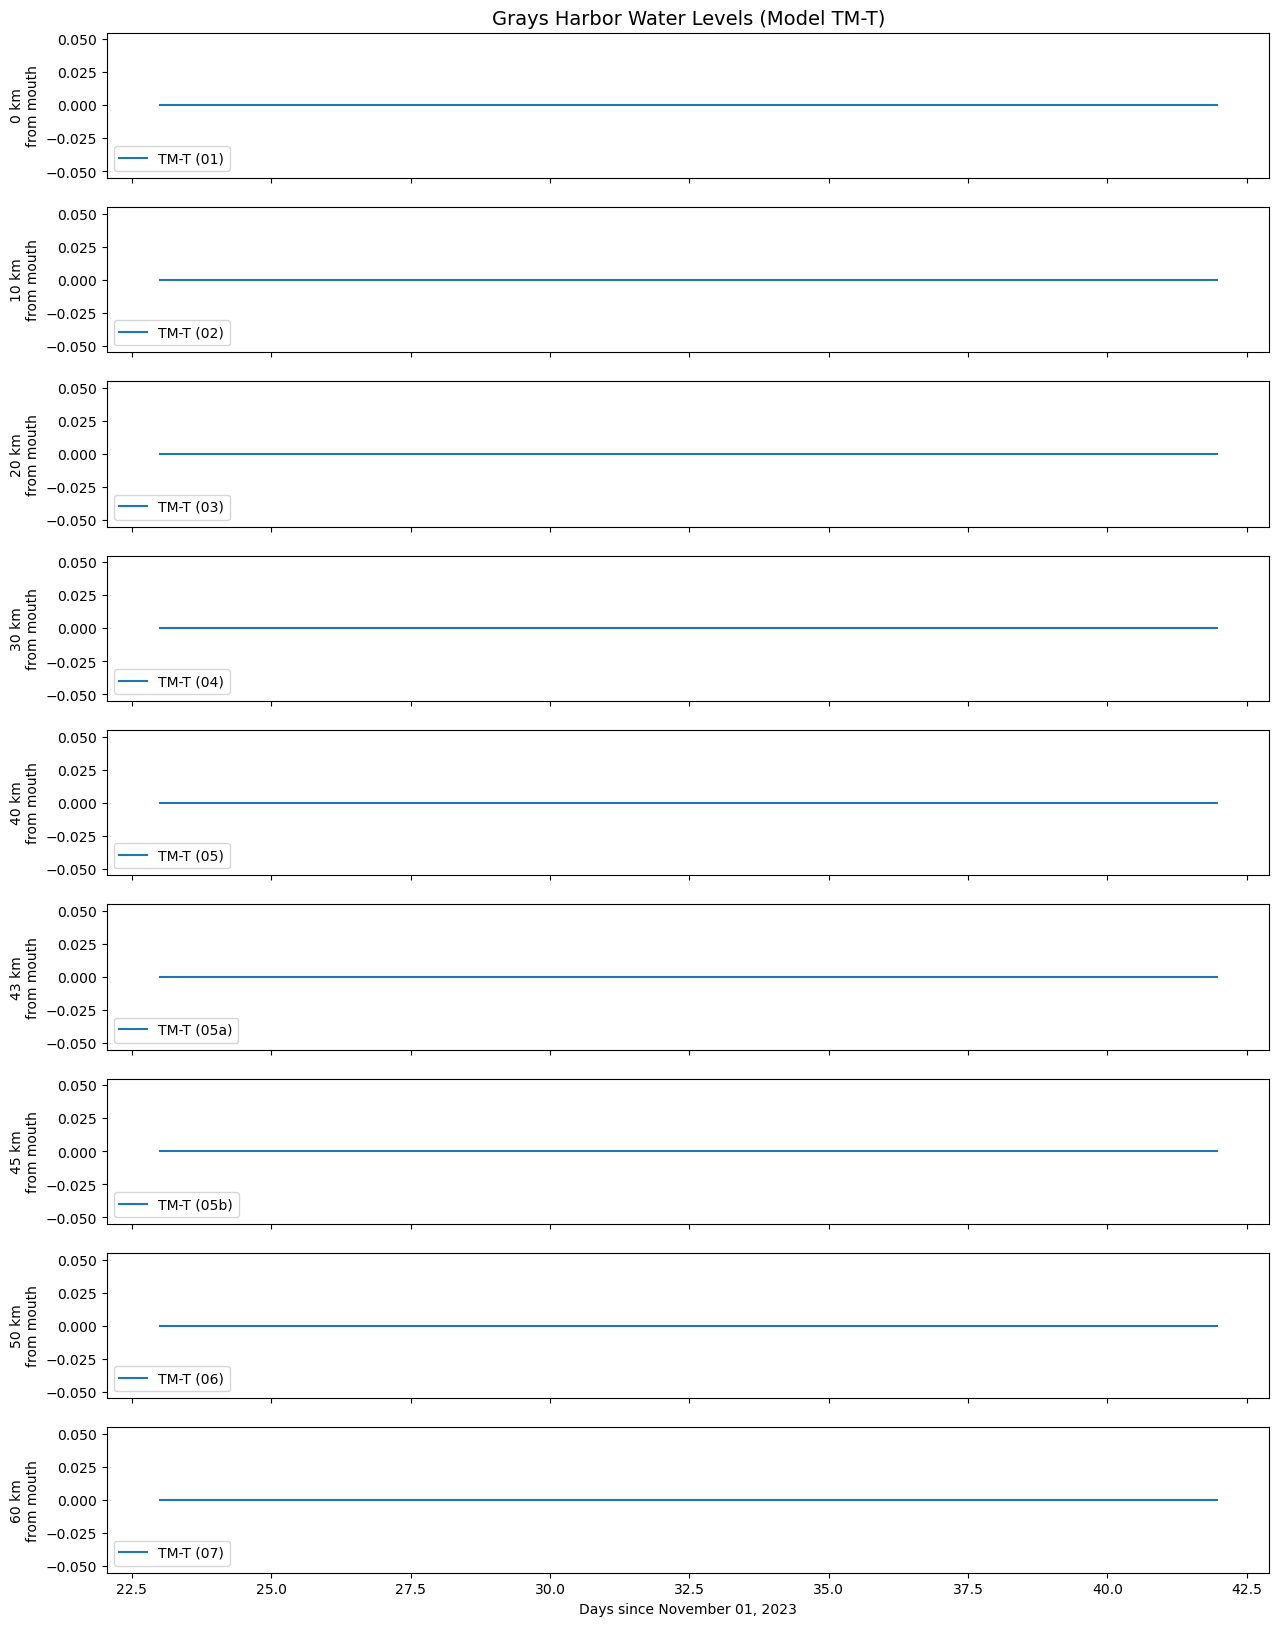
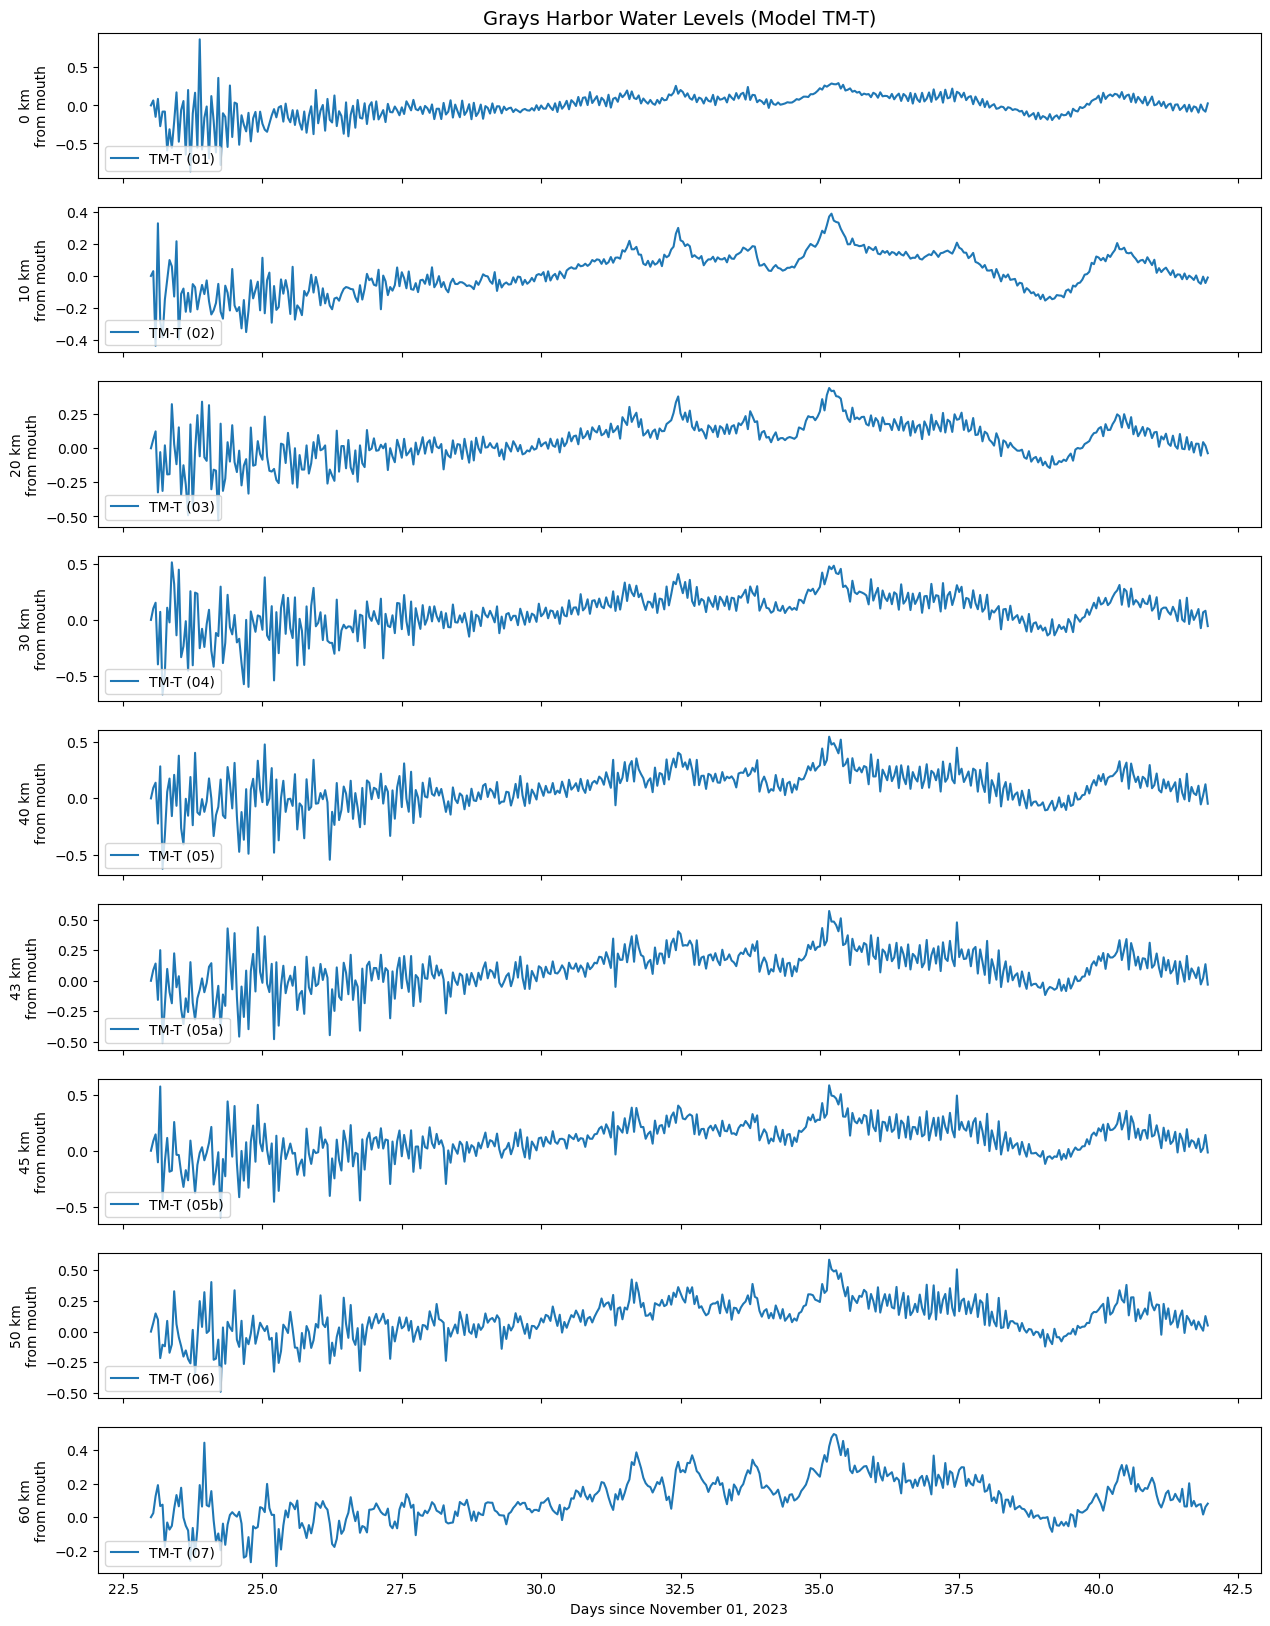
Update weekly log

diff --git a/WeeklyLogs/Log081124_081724.md b/WeeklyLogs/Log081124_081724.md
@@ -20,32 +20,36 @@
 ![Grays Harbor transect water levels](../Figures/081324meeting/GHtransect_wl_models.png)<br>
 Figure 1: Water levels along Grays Harbor transect for all 4 models.<br>
 
-- Models T and TM had mostly same water levels (<5 cm difference for all transect sites) (Fig. 2)
-- Models TMD and TMDW had mostly same water levels (<9cm) (Fig. 3)
-- Testing the T+M model again, but it seems like discharge may make the largest difference in terms of water level influence during storm events
+- Relative to the base model run (Model T), Model TM (tides+MET) showed differences of at least 0.5m along the transects, with this value increasing as you move upstream (Fig. 2)
+- Comparing Model TMD and TM, there is little change at the mouth of Grays Harbor (<2cm) up to 20km upstream (Fig. 3)
+	- Moving further upstream, MET begins to play a larger influence adding up to 2 meters near Montesano
+- Comparing Model TMDW and TMD, water levels were mostly the same (<~5cm) with some phase shifts (spikes) (Fig. 4)
 
 
 ![Transect differences (TM-T)](../Figures/081324meeting/GHtransect_wl_diff_tm-t.png)<br>
 Figure 2: Water level differences between model TM and T.<br>
 
+![Transect differences (TMD-TM)](../Figures/081324meeting/GHtransect_wl_diff_tmd-tm.png)<br>
+Figure 3: Water level differences between model TMD and TM.<br>
+
 ![Transect differences (TMDW-TMD)](../Figures/081324meeting/GHtransect_wl_diff_tmdw-tmd.png)<br>
-Figure 3: Water level differences between model TMDW and TMD.<br>
+Figure 4: Water level differences between model TMDW and TMD.<br>
 
 ### 2) Re-plot flood map
-Re-plot flooding map for Grays Harbor using 0.01m threshold (Fig. 4).<br>
+Re-plot flooding map for Grays Harbor using 0.01m threshold (Fig. 5).<br>
 
 ![Flood map](../Figures/081324meeting/DecStormFlood.gif)<br>
-Figure 4: SSH for December flood.<br>
+Figure 5: SSH for December flood.<br>
 
 ### 3) Analytical model
-- Fit line to Chehalis River width convergence (Fig. 5)<br>
-- Solved initial water level for transect (Fig. 6)<br>
+- Fit line to Chehalis River width convergence (Fig. 6)<br>
+- Solved initial water level for transect (Fig. 7)<br>
 
 ![GH width convergence](../Figures/081324meeting/GH_widthconvergence.png)<br>
-Figure 5: Fitted line for Chehalis River width convergence.<br>
+Figure 6: Fitted line for Chehalis River width convergence.<br>
 
 ![GH initial transect](../Figures/081324meeting/GHtransect_eta_t0.png)<br>
-Figure 6: Eta for transect at time=0.<br>
+Figure 7: Eta for transect at time=0.<br>
 
 ## Next steps:
 - Figure out how to create restart files from *merged_map.nc files for specific time
